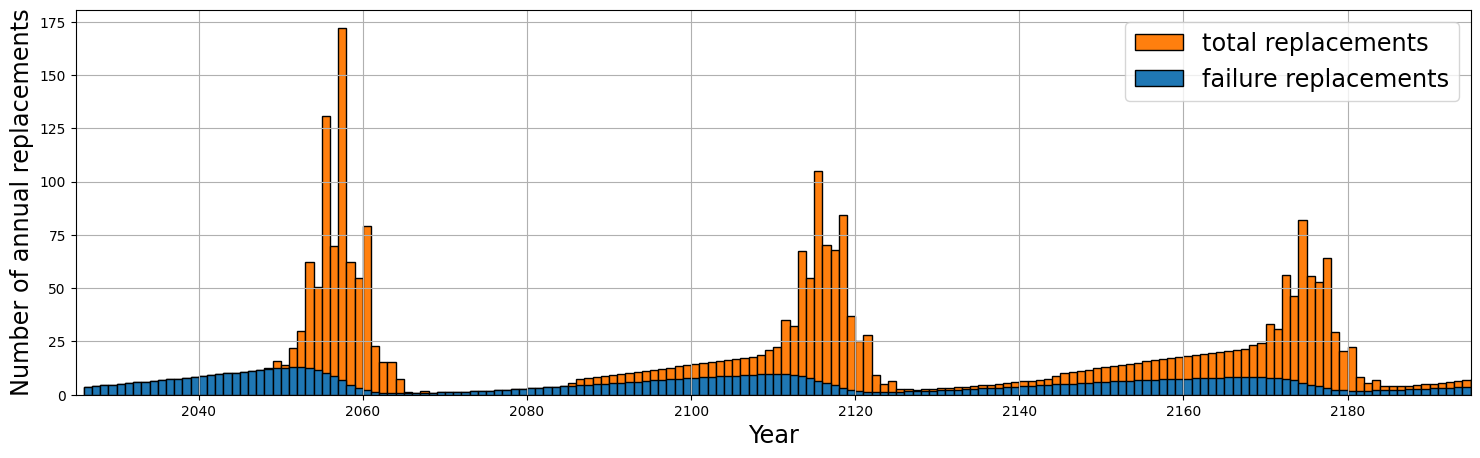
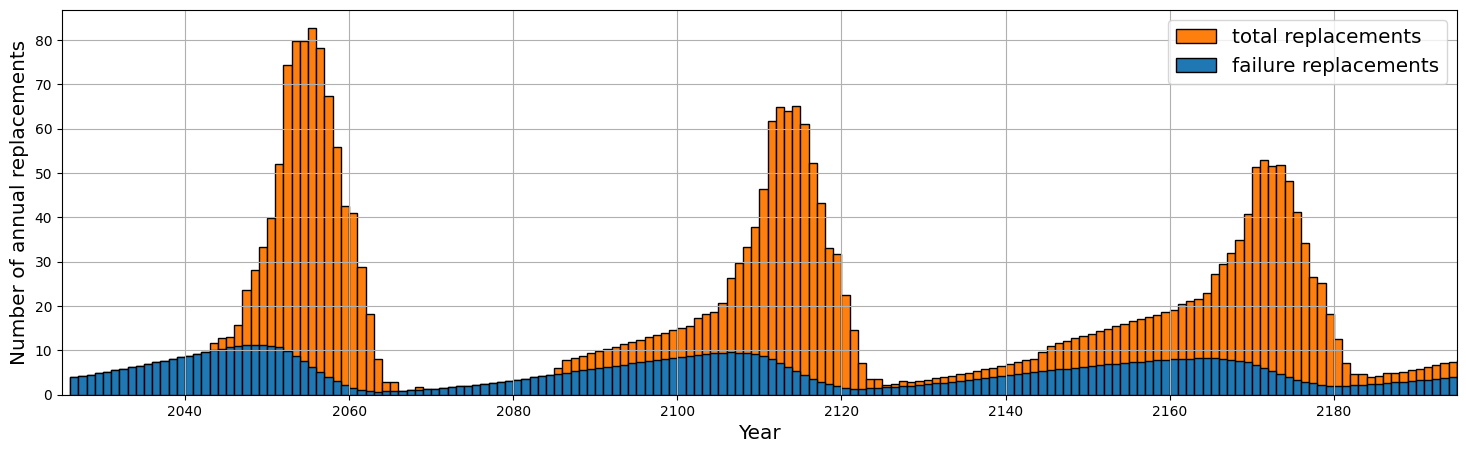
DOC : update basics with new ar treatment operations

diff --git a/doc/source/basic/index.rst b/doc/source/basic/index.rst
@@ -130,25 +130,23 @@ Now you can use these values with the previous lifetime model to optimize an age
           discounting_rate=0.04,
         ).optimize()
 
-The obtained object encapsulates two age replacement arrays of 1000 values (because we considered 1000 assets). These data are stored in ``ar1`` for the first
-ages of replacements and ``ar`` for every next ages of replacement. You can print them.
+The obtained object encapsulates optimal ages of replacement in one array of 1000 values (because we considered 1000 assets). These data are stored in ``ar``. One can also get the time before the first replacement
+by requesting `first_cycle_tr`. Note here, that the optimal ages of replacement are the same for each asset because the costs are the same for each of them (but you can also pass arrays of cost values if you want).
 
 .. code-block:: python
 
-    >>> print(policy.ar1.shape)
-    (1000,)
-    >>> print(policy.ar1[:5])
-    [32.65158647 33.38825011 30.49481795 23.3386567  34.13345578]
-    >>> print(policy.ar.shape)
-    (1000,)
-    >>> print(policy.ar[:5])
-    [59.19751205 59.19751205 59.19751205 59.19751205 59.19751205]
+    >>> print("Optimal ages of replacement (per asset)", policy.ar[:5])
+    Optimal ages of replacement (per asset) [59.19751205 59.19751205 59.19751205 59.19751205 59.19751205]
+    >>> print("Current asset ages", policy.a0[:5])
+    Current asset ages [31 30 25 27 32]
+    >>> print("Time before the first replacement (per asset)", policy.first_cycle_tr[:5])
+    Time before the first replacement (per asset) [28.19751205 29.19751205 34.19751205 32.19751205 27.19751205]
 
 
 Projection of consequences
 ^^^^^^^^^^^^^^^^^^^^^^^^^^
 
-Now that we a optimized an age replacement policy, we can project the consequences of this strategy.
+Now that we have optimized ages of replacement, we can project the consequences of this strategy.
 For instance, you can be interested in seeing the expected number of replacements and number of failures for the next 170 years.
 
 .. code-block:: python
@@ -176,11 +174,11 @@ Here, ReLife does not offer built-in plot functionnalities. But of course, you c
     >>> fig, ax = plt.subplots(figsize=(18, 5),  dpi=100)
     >>> ax.bar(timeline + 2025, nb_replacements, align="edge", width=1., label="total replacements", color="C1", edgecolor="black")
     >>> ax.bar(timeline + 2025, nb_failures, align="edge", width=1., label="failure replacements", color="C0", edgecolor="black")
-    >>> ax.set_ylabel("Number of annual replacements", fontsize="xx-large")
-    >>> ax.set_xlabel("Year", fontsize="xx-large")
+    >>> ax.set_ylabel("Number of annual replacements", fontsize="x-large")
+    >>> ax.set_xlabel("Year", fontsize="x-large")
     >>> ax.set_ylim(bottom=0)
     >>> ax.set_xlim(left=2025, right=2025 + nb_years)
-    >>> ax.legend(loc="upper right", fontsize="xx-large")
+    >>> ax.legend(loc="upper right", fontsize="x-large")
     >>> plt.grid(True)
     >>> plt.show()
 
